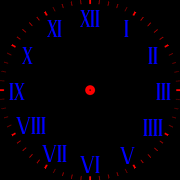
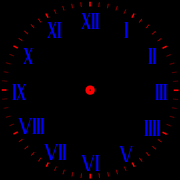
extend tick marks for visibility on Chalk

diff --git a/resources/clock_faces/make_a_face.py b/resources/clock_faces/make_a_face.py
@@ -8,23 +8,20 @@ import FaceMaker
 #face = FaceMaker.FaceMaker(zoom = 0.92, screenSize = (144, 168))
 
 # chalk
-face = FaceMaker.FaceMaker(zoom = 1.01, screenSize = (180, 180))
+face = FaceMaker.FaceMaker(zoom = 0.98, screenSize = (180, 180))
 
 #face.drawRing(1.0)
 
-face.drawTicks(60, 0.95, 1.0, width = 0.003)
-face.drawTicks(12, 0.95, 1.0, width = 0.009)
-face.drawRing(0.0512, 0.0225)
+face.drawTicks(60, 0.95, 1.0, width = 0.003); face.drawTicks(12, 0.95, 1.0, width = 0.009); face.drawRing(0.0512, 0.0225)
 
 font = face.loadFont('effloresce.otf', 0.12)
+print font
 #face.drawCircularLabels(face.romanLabels, 0.95, font, align = 'i', rotate = True)
 #face.drawCircularLabels(face.romanLabels, 0.92, font, align = 'i', rotate = False)
 
-face.pasteImage((0, -0.2), 'pebble_label.png', (13, 4), None)
 face.pasteImage((0.47, 0.53), 'corner_trim.png', (29, 29), None)
 face.pasteImage((-0.47, 0.53), 'corner_trim.png', (29, 29), None, rotate = 90)
 face.pasteImage((-0.47, -0.53), 'corner_trim.png', (29, 29), None, rotate = 180)
 face.pasteImage((0.47, -0.53), 'corner_trim.png', (29, 29), None, rotate = 270)
 
 face.save('a_face_working.png')
-

diff --git a/resources/clock_faces/make_b_face.py b/resources/clock_faces/make_b_face.py
@@ -8,7 +8,7 @@ import FaceMaker
 #face = FaceMaker.FaceMaker(zoom = 1.0, screenSize = (144, 168))
 
 # chalk
-face = FaceMaker.FaceMaker(zoom = 1.01, screenSize = (180, 180))
+face = FaceMaker.FaceMaker(zoom = 0.98, screenSize = (180, 180))
 
 #face.setFg(128)
 #face.drawRing(1.1, width = 0.05)
@@ -22,8 +22,6 @@ face.drawTicks(60, 0.95, 1.0, width = 0.003)
 face.drawTicks(12, 0.95, 1.0, width = 0.009)
 
 font = face.loadFont('Barkentina 1.otf', 0.15)
-face.drawCircularLabels(face.standardLabels, 0.92, font, align = 'i')
-
-face.pasteImage((0, -0.2), 'pebble_label.png', (13, 4), None)
+#face.drawCircularLabels(face.standardLabels, 0.92, font, align = 'i')
 
 face.save('b_face_working.png')

diff --git a/resources/clock_faces/FaceMaker.py b/resources/clock_faces/FaceMaker.py
@@ -283,6 +283,7 @@ class FaceMaker:
         try:
             font = PIL.ImageFont.truetype(filename, h)
         except ImportError:
+            raise
             font = None
         return font
 
@@ -450,4 +451,3 @@ class FaceMaker:
         """ Saves the resulting face. """
         self.flush()
         self.target.save(filename)
-
